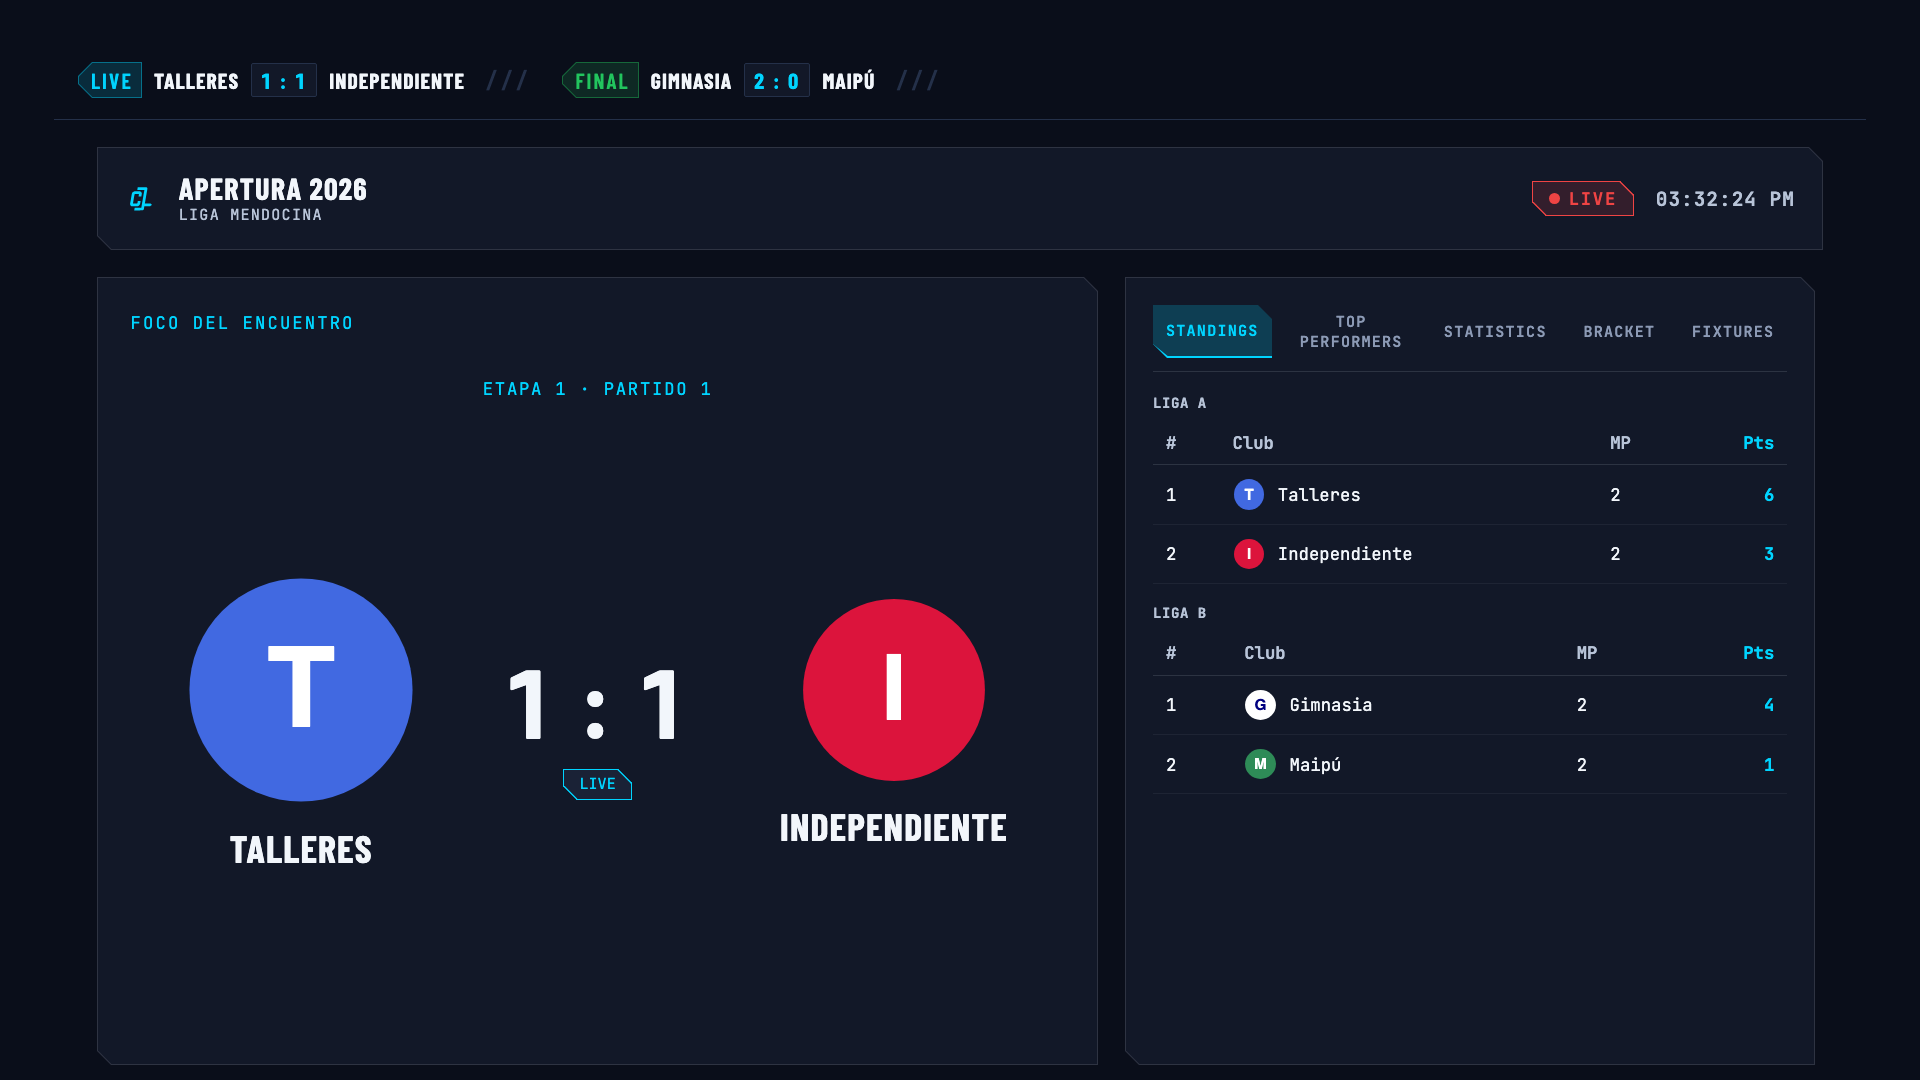
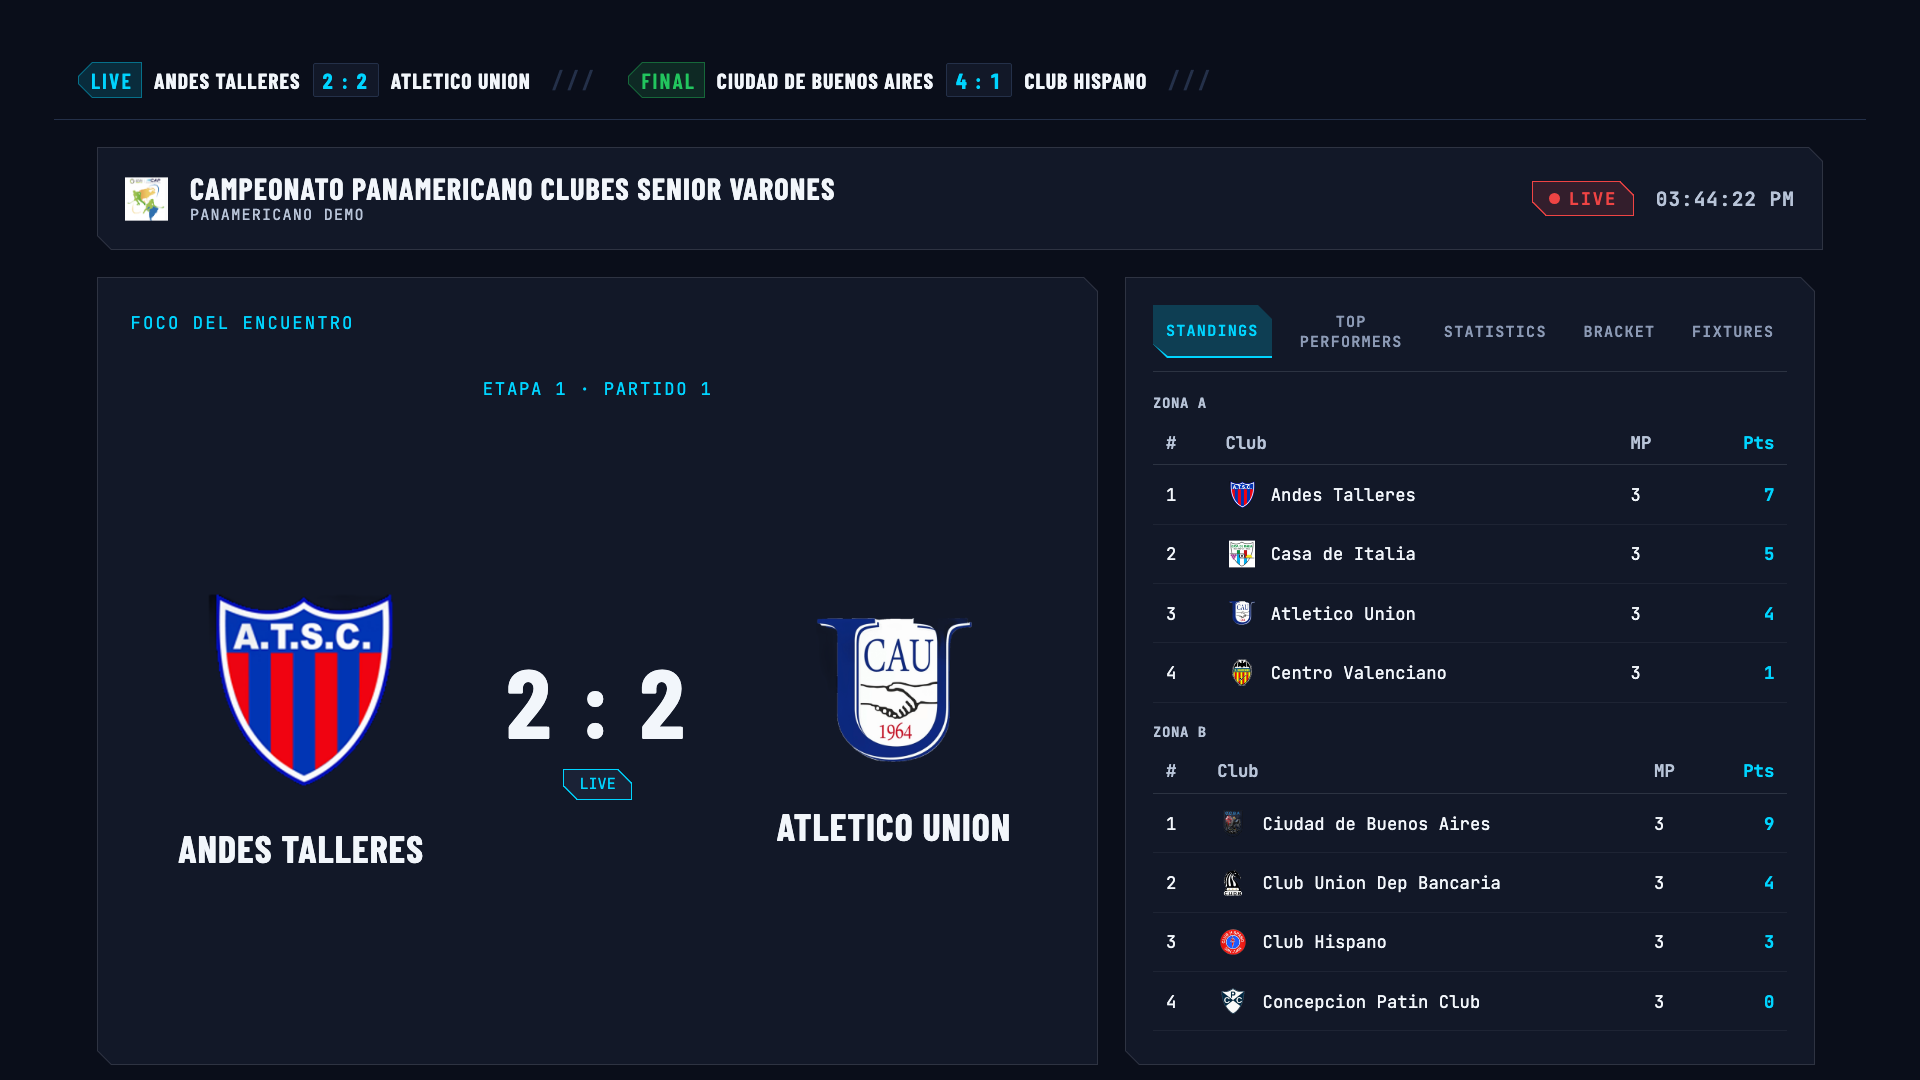
docs(screenshots): use the Panamericano demo's clubs and emblems in the TV kiosk frames

diff --git a/e2e/tv-mixed-format-stage.spec.ts b/e2e/tv-mixed-format-stage.spec.ts
@@ -1,125 +1,142 @@
+import { readFileSync } from 'node:fs';
 import { createServer, type Server } from 'node:http';
+import path from 'node:path';
 import { expect, test } from './fixtures.js';
 
 /**
- * The venue kiosk of a stage that mixes formats: a league zone and a knockout zone beside a second
- * league zone. Each table zone is ranked under its own heading, the knockout zone is the bracket
- * and the league zone's matches are listed by round. The API is a per-worker mock the server-side
- * render reads, so the page is built from real responses rather than the sample dashboard.
+ * The venue kiosk of a stage that mixes formats: two league zones and a knockout zone. Each table
+ * zone is ranked under its own heading, the knockout zone is the bracket and a league zone's
+ * matches are listed by round. The API is a per-worker mock the server-side render reads, so the
+ * page is built from real responses rather than the sample dashboard.
+ *
+ * The clubs and their emblems are the committed Panamericano demo dataset's own, so the frames show
+ * what a venue would see; the zones, scores and standings below are invented for the layout.
  */
 
-const tvPath = '/tv/liga-mendocina/tournaments/apertura-2026';
-const base = '/organizations/liga-mendocina/tournaments/apertura-2026';
+const ORGANIZATION = 'panamericano-demo';
+const TOURNAMENT = 'panamericano-clubes-2025';
+const tvPath = `/tv/${ORGANIZATION}/tournaments/${TOURNAMENT}`;
+const base = `/organizations/${ORGANIZATION}/tournaments/${TOURNAMENT}`;
+const EMBLEMS = path.resolve(
+  import.meta.dirname,
+  '../packages/demo-datasets/datasets/panamericano-clubes-2025/emblems',
+);
 
-const entrant = (id: string, name: string, abbreviation: string, score?: number) => ({
-  kind: 'entrant',
-  entrantId: id,
-  name,
-  abbreviation,
-  ...(score === undefined ? {} : { score }),
-});
+interface Club {
+  readonly alias: string;
+  readonly name: string;
+  readonly abbreviation: string;
+}
 
-const leagueMatch = (position: number, round: number, home: string[], away: string[]) => ({
-  matchId: `league-${position}`,
+const CLUBS: Readonly<Record<string, Club>> = Object.fromEntries(
+  (
+    [
+      ['andes-talleres', 'Andes Talleres', 'AND'],
+      ['atletico-union', 'Atletico Union', 'CAU'],
+      ['casa-de-italia', 'Casa de Italia', 'CIT'],
+      ['centro-valenciano', 'Centro Valenciano', 'VAL'],
+      ['ciudad-de-buenos-aires', 'Ciudad de Buenos Aires', 'CCBA'],
+      ['club-hispano', 'Club Hispano', 'HIS'],
+      ['club-union-dep-bancaria', 'Club Union Dep Bancaria', 'CUDB'],
+      ['concepcion-patin-club', 'Concepcion Patin Club', 'CON'],
+      ['corazonistas-bogota', 'Corazonistas Bogota', 'BOG'],
+      ['estudiantil-san-miguel', 'Estudiantil San Miguel', 'ESTSM'],
+    ] as const
+  ).map(([alias, name, abbreviation]) => [alias, { alias, name, abbreviation }]),
+);
+
+const entrant = (alias: string, score?: number) => {
+  const club = CLUBS[alias] as Club;
+  return {
+    kind: 'entrant',
+    entrantId: alias,
+    name: club.name,
+    abbreviation: club.abbreviation,
+    ...(score === undefined ? {} : { score }),
+  };
+};
+
+const leagueMatch = (
+  position: number,
+  round: number,
+  home: string,
+  away: string,
+  scores?: readonly [number, number],
+) => ({
+  matchId: `${home}-${away}`,
   bracket: 'winners',
   round,
   position,
   matchNumber: position,
-  status: round === 1 ? 'finalized' : 'scheduled',
-  slots: [
-    entrant(home[0] as string, home[1] as string, home[2] as string, round === 1 ? 2 : undefined),
-    entrant(away[0] as string, away[1] as string, away[2] as string, round === 1 ? 1 : undefined),
-  ],
+  status: scores ? 'finalized' : 'scheduled',
+  slots: [entrant(home, scores?.[0]), entrant(away, scores?.[1])],
 });
 
-/** A club's emblem is an object the page requests by id; each is a plain coloured disc here. */
-const EMBLEM_COLOURS: Readonly<Record<string, string>> = {
-  Talleres: 'royalblue',
-  Independiente: 'crimson',
-  Gimnasia: 'white',
-  Maipú: 'seagreen',
-};
-const emblemSvg = (name: string): string =>
-  `<svg xmlns="http://www.w3.org/2000/svg" viewBox="0 0 64 64"><circle cx="32" cy="32" r="30" fill="${EMBLEM_COLOURS[name]}"/><text x="32" y="42" font-size="30" font-family="sans-serif" font-weight="700" text-anchor="middle" fill="${name === 'Gimnasia' ? 'navy' : 'white'}">${name[0]}</text></svg>`;
+const standing = (
+  alias: string,
+  rank: number,
+  zoneName: string,
+  played: number,
+  points: number,
+) => ({
+  rank,
+  entrantId: alias,
+  name: (CLUBS[alias] as Club).name,
+  abbreviation: (CLUBS[alias] as Club).abbreviation,
+  sharedRank: false,
+  zoneName,
+  statistics: { played, points },
+});
+
+const overviewMatch = (
+  matchNumber: number,
+  status: string,
+  home: string,
+  away: string,
+  homeScore: number,
+  awayScore: number,
+) => ({
+  matchId: `overview-${matchNumber}`,
+  matchNumber,
+  stageNumber: 1,
+  round: 1,
+  status,
+  homeName: (CLUBS[home] as Club).name,
+  homeAbbreviation: (CLUBS[home] as Club).abbreviation,
+  homeScore,
+  awayName: (CLUBS[away] as Club).name,
+  awayAbbreviation: (CLUBS[away] as Club).abbreviation,
+  awayScore,
+});
 
 const overview = {
-  organizationAlias: 'liga-mendocina',
-  organizationName: 'Liga Mendocina',
-  tournamentAlias: 'apertura-2026',
-  tournamentName: 'Apertura 2026',
-  seasonName: '2026',
+  organizationAlias: ORGANIZATION,
+  organizationName: 'Panamericano Demo',
+  tournamentAlias: TOURNAMENT,
+  tournamentName: 'Campeonato Panamericano Clubes Senior Varones',
+  seasonName: '2025/26',
   status: 'in-progress',
+  emblemObjectId: 'tournament',
   ruleset: {},
-  clubs: Object.keys(EMBLEM_COLOURS).map((name) => ({
-    clubId: `club-${name}`,
-    name,
-    emblemObjectId: `emblem-${name}`,
+  clubs: Object.values(CLUBS).map((club) => ({
+    clubId: `club-${club.alias}`,
+    name: club.name,
+    alias: club.alias,
+    emblemObjectId: `emblem-${club.alias}`,
   })),
   matches: [
-    {
-      matchId: 'league-1',
-      matchNumber: 1,
-      stageNumber: 1,
-      round: 1,
-      status: 'in-progress',
-      homeName: 'Talleres',
-      homeAbbreviation: 'TAL',
-      homeScore: 1,
-      awayName: 'Independiente',
-      awayAbbreviation: 'IND',
-      awayScore: 1,
-    },
-    {
-      matchId: 'league-2',
-      matchNumber: 2,
-      stageNumber: 1,
-      round: 1,
-      status: 'finalized',
-      homeName: 'Gimnasia',
-      homeAbbreviation: 'GIM',
-      homeScore: 2,
-      awayName: 'Maipú',
-      awayAbbreviation: 'MAI',
-      awayScore: 0,
-    },
+    overviewMatch(1, 'in-progress', 'andes-talleres', 'atletico-union', 2, 2),
+    overviewMatch(2, 'finalized', 'ciudad-de-buenos-aires', 'club-hispano', 4, 1),
   ],
   standingsPreview: [
-    {
-      rank: 1,
-      entrantId: 'a1',
-      name: 'Talleres',
-      abbreviation: 'TAL',
-      sharedRank: false,
-      zoneName: 'Liga A',
-      statistics: { played: 2, points: 6 },
-    },
-    {
-      rank: 2,
-      entrantId: 'a2',
-      name: 'Independiente',
-      abbreviation: 'IND',
-      sharedRank: false,
-      zoneName: 'Liga A',
-      statistics: { played: 2, points: 3 },
-    },
-    {
-      rank: 1,
-      entrantId: 'b1',
-      name: 'Gimnasia',
-      abbreviation: 'GIM',
-      sharedRank: false,
-      zoneName: 'Liga B',
-      statistics: { played: 2, points: 4 },
-    },
-    {
-      rank: 2,
-      entrantId: 'b2',
-      name: 'Maipú',
-      abbreviation: 'MAI',
-      sharedRank: false,
-      zoneName: 'Liga B',
-      statistics: { played: 2, points: 1 },
-    },
+    standing('andes-talleres', 1, 'Zona A', 3, 7),
+    standing('casa-de-italia', 2, 'Zona A', 3, 5),
+    standing('atletico-union', 3, 'Zona A', 3, 4),
+    standing('centro-valenciano', 4, 'Zona A', 3, 1),
+    standing('ciudad-de-buenos-aires', 1, 'Zona B', 3, 9),
+    standing('club-union-dep-bancaria', 2, 'Zona B', 3, 4),
+    standing('club-hispano', 3, 'Zona B', 3, 3),
+    standing('concepcion-patin-club', 4, 'Zona B', 3, 0),
   ],
 };
 
@@ -128,16 +145,27 @@ const bracket = {
   zones: [
     {
       zoneId: 'zone-a',
-      zoneName: 'Liga A',
+      zoneName: 'Zona A',
       format: 'round-robin',
       matches: [
-        leagueMatch(1, 1, ['a1', 'Talleres', 'TAL'], ['a2', 'Independiente', 'IND']),
-        leagueMatch(2, 2, ['a2', 'Independiente', 'IND'], ['a1', 'Talleres', 'TAL']),
+        leagueMatch(1, 1, 'andes-talleres', 'atletico-union', [2, 2]),
+        leagueMatch(2, 1, 'casa-de-italia', 'centro-valenciano', [3, 1]),
+        leagueMatch(3, 2, 'andes-talleres', 'casa-de-italia'),
+        leagueMatch(4, 2, 'atletico-union', 'centro-valenciano'),
+      ],
+    },
+    {
+      zoneId: 'zone-b',
+      zoneName: 'Zona B',
+      format: 'round-robin',
+      matches: [
+        leagueMatch(1, 1, 'ciudad-de-buenos-aires', 'club-hispano', [4, 1]),
+        leagueMatch(2, 1, 'club-union-dep-bancaria', 'concepcion-patin-club', [2, 0]),
       ],
     },
     {
       zoneId: 'zone-cup',
-      zoneName: 'Copa',
+      zoneName: 'Copa de Oro',
       format: 'single-elimination',
       matches: [
         {
@@ -147,7 +175,7 @@ const bracket = {
           position: 1,
           matchNumber: 1,
           status: 'scheduled',
-          slots: [entrant('c1', 'Belgrano', 'BEL'), entrant('c2', 'Racing', 'RAC')],
+          slots: [entrant('corazonistas-bogota'), entrant('estudiantil-san-miguel')],
         },
       ],
     },
@@ -168,15 +196,23 @@ test.beforeAll(async ({ workerPort }) => {
   });
   await new Promise<void>((resolve) => server.listen(workerPort, '127.0.0.1', resolve));
 });
+
 test.beforeEach(async ({ page }) => {
   await page.route('**/api/objects/emblem-*', (route) => {
-    const name = decodeURIComponent(route.request().url().split('emblem-')[1] ?? '');
+    const alias = decodeURIComponent(route.request().url().split('emblem-')[1] ?? '');
     return route.fulfill({
       status: 200,
-      contentType: 'image/svg+xml',
-      body: emblemSvg(name),
+      contentType: 'image/png',
+      body: readFileSync(path.join(EMBLEMS, 'clubs', `${alias}.png`)),
     });
   });
+  await page.route(`**${base}/emblem`, (route) =>
+    route.fulfill({
+      status: 200,
+      contentType: 'image/png',
+      body: readFileSync(path.join(EMBLEMS, 'tournament.png')),
+    }),
+  );
 });
 
 test.afterAll(async () => {
@@ -188,29 +224,30 @@ test('ranks each table zone under its own heading instead of one merged list', a
 
   const zones = page.getByTestId('tv-standings-zone');
   await expect(zones).toHaveCount(2);
-  await expect(zones.nth(0).getByRole('heading', { name: 'Liga A' })).toBeVisible();
-  await expect(zones.nth(0)).toContainText('Talleres');
-  await expect(zones.nth(0)).not.toContainText('Gimnasia');
-  await expect(zones.nth(1).getByRole('heading', { name: 'Liga B' })).toBeVisible();
-  await expect(zones.nth(1)).toContainText('Gimnasia');
+  await expect(zones.nth(0).getByRole('heading', { name: 'Zona A' })).toBeVisible();
+  await expect(zones.nth(0)).toContainText('Andes Talleres');
+  await expect(zones.nth(0)).not.toContainText('Ciudad de Buenos Aires');
+  await expect(zones.nth(1).getByRole('heading', { name: 'Zona B' })).toBeVisible();
+  await expect(zones.nth(1)).toContainText('Ciudad de Buenos Aires');
 });
 
-test('lists the league zone’s matches by round and keeps the knockout zone in the bracket', async ({
+test('lists the league zones’ matches by round and keeps the knockout zone in the bracket', async ({
   page,
 }) => {
   await page.goto(`${tvPath}?view=fixtures`);
 
   const fixtures = page.getByTestId('tv-fixtures');
-  await expect(fixtures.getByRole('heading', { name: 'Liga A' })).toBeVisible();
-  await expect(fixtures.getByRole('heading', { name: 'Round 1' })).toBeVisible();
-  await expect(fixtures.getByRole('heading', { name: 'Round 2' })).toBeVisible();
-  await expect(fixtures).not.toContainText('Belgrano');
+  await expect(fixtures.getByRole('heading', { name: 'Zona A' })).toBeVisible();
+  await expect(fixtures.getByRole('heading', { name: 'Zona B' })).toBeVisible();
+  await expect(fixtures.getByRole('heading', { name: 'Round 1' })).toHaveCount(2);
+  await expect(fixtures.getByRole('heading', { name: 'Round 2' })).toHaveCount(1);
+  await expect(fixtures).not.toContainText('BOG');
 
   await page.getByRole('button', { name: 'Bracket' }).click();
   const drawn = page.getByTestId('tv-bracket');
-  await expect(drawn).toContainText('Copa');
-  await expect(drawn).toContainText('BEL');
-  await expect(drawn).not.toContainText('Liga A');
+  await expect(drawn).toContainText('Copa de Oro');
+  await expect(drawn).toContainText('BOG');
+  await expect(drawn).not.toContainText('Zona A');
 });
 
 test('captures screenshots of the zone-aware kiosk at broadcast size', async ({ page }) => {
